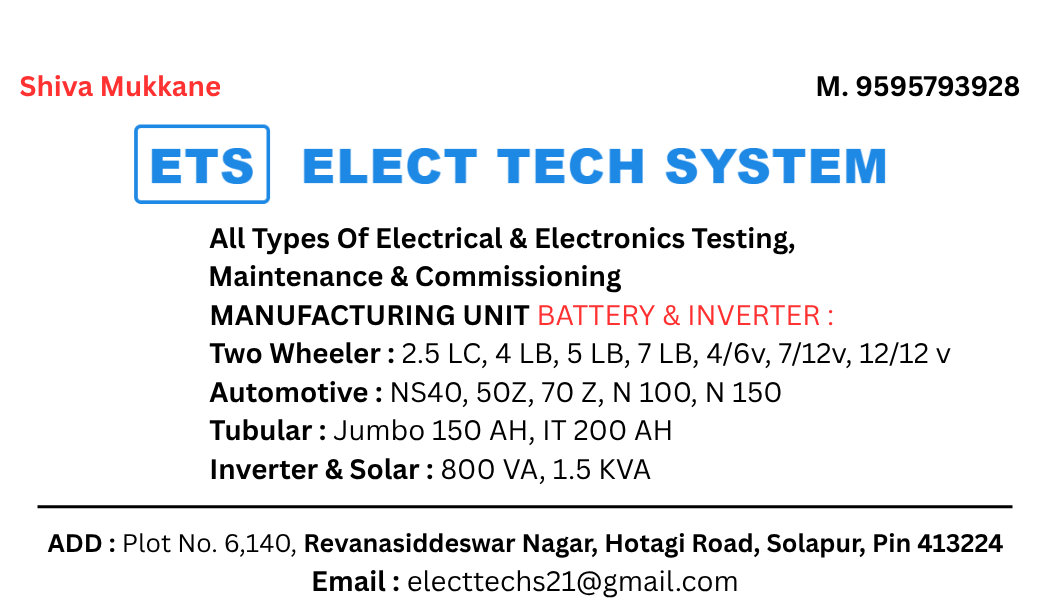
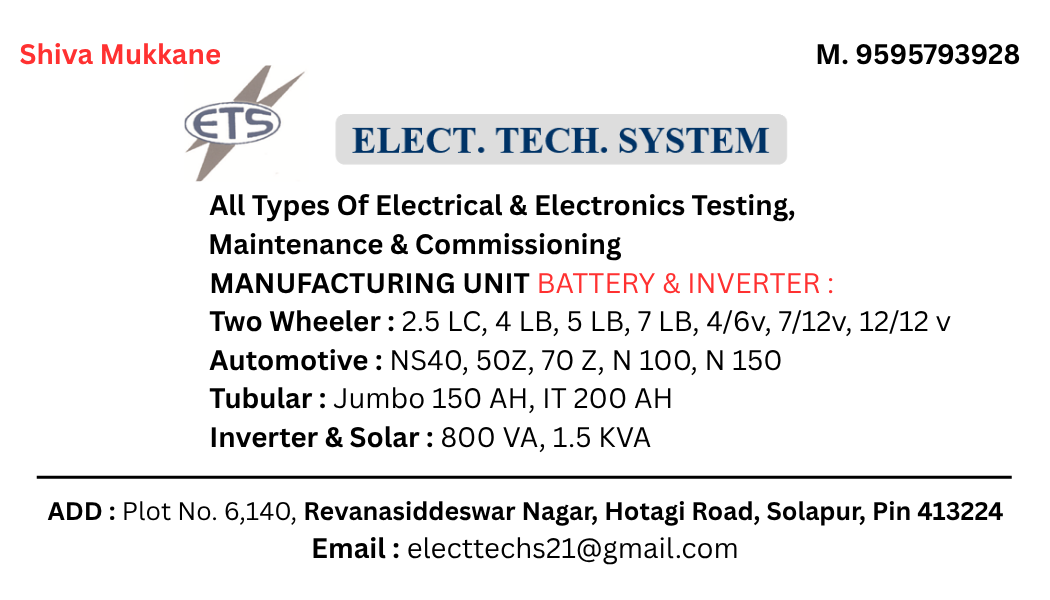
New Updated

Changed region(s): [[0.0, 0.06, 0.9752, 0.81], [0.0305, 0.84, 0.9752, 1.0], [0.7619, 0.06, 0.9752, 0.18]]

diff --git a/index.html b/index.html
@@ -8,6 +8,82 @@
     <link rel="stylesheet" href="style.css">
     <!-- Font Awesome for Icons -->
     <link rel="stylesheet" href="https://cdnjs.cloudflare.com/ajax/libs/font-awesome/6.2.0/css/all.min.css">
+
+    <!-- Template Stylesheet -->
+    <link href="css/style.css" rel="stylesheet">
+    <meta name="viewport" content="width=device-width, initial-scale=1.0">
+    <meta property="og:title" content="Elect Tech System" />
+    <meta property="og:description" content="Elect Tech System - Solapur" />
+    <meta property="og:image" content="https://apnabazar.tech/9x7w3pqzjh1l/index.html/Images/Logo.png" />
+    <meta property="og:url" content="https://apnabazar.tech/9x7w3pqzjh1l/index.html" />
+    <meta property="og:type" content="website" />
+    <style>
+        /* Desktop view (default) */
+        @media screen and (min-width: 1024px) {
+        .container {
+            max-width: 1200px;
+        }
+        #video-frame {
+            width: 800px;
+            height: 560px;
+        }
+        .mobile-only {
+            display: none;
+        }
+        }
+        /* Tablet view */
+        @media screen and (min-width: 768px) and (max-width: 1023px) {
+        .container {
+            max-width: 95%;
+        }
+        #video-frame {
+            width: 600px;
+            height: 400px;
+        }
+        .social-block {
+            flex-wrap: wrap;
+        }
+        .mobile-only {
+            display: none;
+        }
+        }
+        /* Mobile view */
+        @media screen and (max-width: 767px) {
+        .container {
+            max-width: 100%;
+            padding: 0 15px;
+        }
+        #video-frame {
+            width: 100%;
+            height: 300px;
+        }
+        .navbar-brand {
+            flex-direction: column;
+            text-align: center;
+        }
+        .social-block {
+            margin-top: 15px;
+            justify-content: center;
+        }
+        .email-text {
+            display: none;
+        }
+        .desktop-only {
+            display: none;
+        }
+        .mobile-only {
+            display: block;
+        }
+        .carousel-item img.desktop-img {
+            display: none;
+        }
+        .carousel-item img.mobile-img {
+            display: block;
+            height: 300px;
+            object-fit: cover;
+        }
+        }
+    </style>
 </head>
 <body>
 
@@ -15,7 +91,7 @@
         <div class="container">
             <a href="#" class="logo">
                 <img src="./Images/Logo.png" alt="Elect Tech System Logo">
-                <span>ELECT TECH SYSTEM</span>
+                <span class="logo-text-bg">ELECT TECH SYSTEM</span>
             </a>
             <div class="header-controls">
                 <div class="language-switcher">
@@ -205,7 +281,7 @@
                         <p><i class="fa-solid fa-envelope"></i> <a href="mailto:electtechs21@gmail.com">electtechs21@gmail.com</a></p>
                     </div>
                     <div class="map-container">
-                        <iframe src="https://www.google.com/maps/embed?pb=!1m17!1m12!1m3!1d3802.6751539975003!2d75.93580387517021!3d17.61815398330888!2m3!1f0!2f0!3f0!3m2!1i1024!2i768!4f13.1!3m2!1m1!2zMTfCsDM3JzA1LjQiTiA3NcKwNTYnMTguMiJF!5e0!3m2!1sen!2sin!4v1750044338836!5m2!1sen!2sin" width="600" height="450" style="border:0;" allowfullscreen="" loading="lazy" referrerpolicy="no-referrer-when-downgrade"></iframe>
+                        <iframe src="https://www.google.com/maps/embed?pb=!1m17!1m12!1m3!1d3802.6771099101065!2d75.93555637517026!3d17.618061183309035!2m3!1f0!2f0!3f0!3m2!1i1024!2i768!4f13.1!3m2!1m1!2zMTfCsDM3JzA1LjAiTiA3NcKwNTYnMTcuMyJF!5e0!3m2!1sen!2sin!4v1750416011455!5m2!1sen!2sin" width="600" height="450" style="border:0;" allowfullscreen="" loading="lazy" referrerpolicy="no-referrer-when-downgrade"></iframe>
                     </div>
                 </div>
             </div>

diff --git a/style.css b/style.css
@@ -64,6 +64,17 @@ header {
     z-index: 100;
 }
 
+/* Add this new rule to style the logo text */
+.logo-text-bg {
+    background-color: #e9e9e9; /* Light grey background */
+    padding: 8px 15px;          /* Vertical and horizontal padding */
+    border-radius: 8px;         /* Rounded corners */
+    color: #003366;             /* Dark blue text color, similar to image */
+    font-family: 'Times New Roman', Times, serif; /* A font similar to the image */
+    letter-spacing: 2px;        /* Adds space between letters */
+    font-weight: bold;
+}
+
 header .container {
     display: flex;
     justify-content: space-between;
@@ -557,6 +568,17 @@ nav ul li a:hover {
         margin: 1rem 0;
     }
 
+    /* Add these new rules for the logo on mobile */
+    .logo {
+        font-size: 1rem; /* Reduces the base font size of the logo container */
+    }
+
+    .logo-text-bg {
+        line-height: 1.2; /* Adjusts the line height for two lines */
+        padding: 8px 12px; /* Slightly adjust padding */
+        text-align: center; /* Centers the text */
+    }
+
     .language-switcher {
         order: -1;
         margin-bottom: 1rem;
@@ -569,29 +591,45 @@ nav ul li a:hover {
 
 /* For Mobile Phones */
 @media (max-width: 768px) {
-    /* General Styles */
-    .section-title { font-size: 2rem; }
+    /* --- Header & Logo --- */
+    .logo img {
+        height: 50px; /* Make ETS image smaller */
+    }
+    .logo-text-bg {
+        font-size: 0.8rem;   /* Make logo text smaller */
+        padding: 6px 10px;   /* Reduce padding */
+        letter-spacing: 1px; /* Reduce letter spacing */
+    }
 
-    /* Hero Section */
-    .hero-content h1 { font-size: 2.5rem; }
-    .hero-content .tagline { font-size: 1.2rem; }
+    /* --- General Styles --- */
+    .section-title { 
+        font-size: 2rem; 
+    }
 
-    /* Business Card Section */
+    /* --- Hero Section --- */
+    .hero-content h1 { 
+        font-size: 2.5rem; 
+    }
+    .hero-content .tagline { 
+        font-size: 1.2rem; 
+    }
+
+    /* --- Business Card Section --- */
     .business-card-image-section {
         padding: 2rem 15px;
     }
     
-    /* Certificate Slider */
+    /* --- Certificate Slider --- */
     #certificate-slider-section {
         padding: 3rem 15px;
     }
 
-    /* Contact Section */
+    /* --- Contact Section --- */
     .contact-wrapper {
         grid-template-columns: 1fr;
     }
 
-    /* New Footer Section */
+    /* --- New Footer Section --- */
     .footer-content {
         flex-direction: column;
     }
